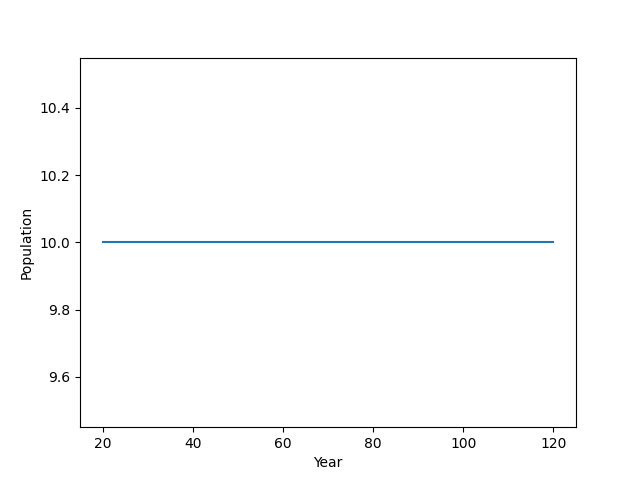
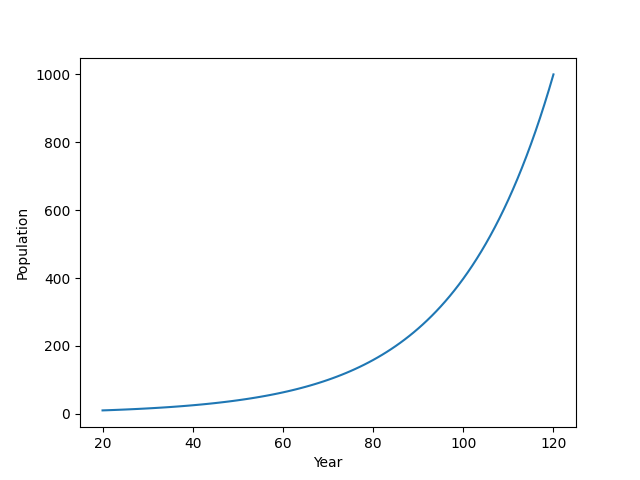
fix growth rate population function but still not generating any new person

diff --git a/simple/Simulator.py b/simple/Simulator.py
@@ -36,7 +36,7 @@ class Simulator:
         self.annual_birth = {}
         for year in range(self.current_year + 1, self.current_year + self.period_length + 1):
             prev_population = self.annual_population[year - 1]
-            new_population = int(prev_population * np.exp(self.growth_rate))
+            new_population = prev_population * np.exp(self.growth_rate)
             self.annual_population[year] = new_population
             # print(f"annual population {year} = ", self.annual_population[year])
         self.annual_death = {}
@@ -86,7 +86,7 @@ class Simulator:
         if year in self.annual_population:
             if self.couples.__len__() == 0:
                 return
-            birth_rate = self.couples.__len__() / (self.annual_population[year] - self.current_population)
+            birth_rate = (self.annual_population[year] - self.current_population) / self.couples.__len__()
             for couple in self.couples:
                 if np.random.rand() < birth_rate:
                     father = self.people[couple[0]]
@@ -94,6 +94,7 @@ class Simulator:
                     if father.gender != "M":
                         father, mother = mother, father
                     child = utils.create_child(mother, father, year, self.death_age_distribution)
+                    self.current_population += 1
                     self.people[child.id] = child
                     father.children_ids.append(child.id)
                     mother.children_ids.append(child.id)
